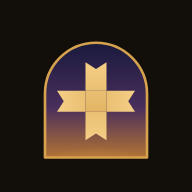
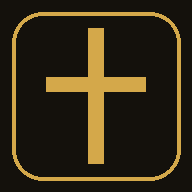
إلغاء الأيقونة الجديدة والرجوع للأيقونة السابقة (r145)
Claude-Session: https://claude.ai/code/session_01TxsQH8W41ZBNhnMhe9bVaK

diff --git a/guide-news.js b/guide-news.js
@@ -1,7 +1,7 @@
 /* سجل الميزات الجديدة (الأحدث أولا). كل ميزة جديدة تُضاف هنا كمدخل جديد في أعلى القائمة،
    ثم تُحدَّث مواصفة الصفحة المتأثرة في tools/make-guide.js وتُعاد اللقطات (node tools/make-guide.js). */
 window.KG_NEWS=[
-{v:"r144",t:"أيقونة جديدة وتنظيم الخطوط",x:"أيقونة التطبيق صارت نافذة مقوّسة بسماء الفجر وصليب قبطي ذهبي (تظهر بعد إعادة تثبيت التطبيق على الشاشة الرئيسية). وتوحّدت أحجام الخطوط في الواجهة على سلّم أقل عددا فصار الشكل أكثر اتساقا. وأُضيف فحص آلي لبنية المحتوى وملف يوثّق الألوان والخطوط والمصطلحات."},
+{v:"r144",t:"تنظيم أحجام الخطوط",x:"توحّدت أحجام الخطوط في الواجهة على سلّم أقل عددا فصار الشكل أكثر اتساقا. وأُضيف فحص آلي لبنية المحتوى وملف يوثّق الألوان والخطوط والمصطلحات."},
 {v:"r143",t:"رأس قراءة أخف وصفحة «بعد القداس» أدفأ",x:"في رأس القراءة صار 🕊 الهمسات و🕯 وضع الكنيسة داخل زر واحد «⋯» (يفتح خيارات القراءة) فبقي في الصف زر الخيارات وزرّا القداسين والفهرس فقط. وصفحة «بعد القداس» صارت بلحظة ختام: علامة ✓ تُرسم بهدوء مع ملخص ما صليته، وإن لم تصلِّ شيئا تظهر رسالة سلام بدل الأصفار، وفي آخرها «الرب معكم · إلى لقاء قريب»."},
 {v:"r142",t:"تحسينات إتاحة (وصول)",x:"فحص تباين الألوان في الثيمات الـ١١: ظُلّلت ألوان التمييز في الثيمات الفاتحة، وصُحّح تباين رقم الشرح والهوامش ومقاطع الذكصولوجيات. مؤشر تركيز واضح عند التنقل بلوحة المفاتيح، وأزرار رأس القراءة أكبر (٤٠ بكسل) لتسهل على اللمس."},
 {v:"r141",t:"إصلاح: أزرار المقابل لا تغيب عند فتح البرنامج",x:"كانت أزرار الانتقال للقداسين الآخرين قد لا تظهر أحيانا عند فتح البرنامج مباشرة على قسم؛ أصبحت تظهر دائما."},

diff --git a/sw.js b/sw.js
@@ -1,4 +1,4 @@
-const CACHE_NAME='khulagi-v1.5-shell-r144';
+const CACHE_NAME='khulagi-v1.5-shell-r145';
 const FILES=['./','index.html','icon-192.png','icon-512.png','guide-news.js','guide-pages.js','guide/doxologies.jpg','guide/library.jpg','guide/lists.jpg','guide/lit.jpg','guide/notes.jpg','guide/post.jpg','guide/pre.jpg','guide/reader.jpg','guide/settings.jpg','guide/sidx.jpg','guide/splash.jpg','guide/story.jpg','guide/today.jpg','reemkufi-arabic-700-normal.woff2','dawn.jpg','data.js','study.js','swipe.js','live.js','story.js','study-data.js','data-bible.js','content-raf.txt','content-bas.txt','content-greg.txt','content-cyr.txt','content-qisam.txt','content-misc.txt','content-bless.txt','content-app.txt','content-taqs.txt','content-dox.txt','manifest.webmanifest','amiri-arabic-400-normal.woff2','amiri-arabic-700-normal.woff2','amiri-latin-400-normal.woff2','tajawal-arabic-400.woff2','tajawal-latin-400.woff2','tajawal-arabic-700.woff2','tajawal-latin-700.woff2','cairo-arabic-400-normal.woff2','cairo-arabic-700-normal.woff2','el-messiri-arabic-400-normal.woff2','el-messiri-arabic-700-normal.woff2','lateef-arabic-400-normal.woff2','lateef-arabic-700-normal.woff2','markazi-text-arabic-400-normal.woff2','markazi-text-arabic-700-normal.woff2','noto-naskh-arabic-arabic-400-normal.woff2','noto-naskh-arabic-arabic-700-normal.woff2','reem-kufi-arabic-400-normal.woff2','reem-kufi-arabic-700-normal.woff2','scheherazade-new-arabic-400-normal.woff2','scheherazade-new-arabic-700-normal.woff2','amiri-latin-700-normal.woff2','noto-sans-coptic-coptic-400-normal.woff2','noto-sans-coptic-latin-400-normal.woff2'];
 self.addEventListener('install',e=>{e.waitUntil(caches.open(CACHE_NAME).then(c=>Promise.all(FILES.map(f=>c.add(new Request(f,{cache:'reload'})).catch(()=>{})))).then(()=>self.skipWaiting()))});
 self.addEventListener('activate',e=>{e.waitUntil(caches.keys().then(k=>Promise.all(k.filter(x=>x!==CACHE_NAME).map(x=>caches.delete(x)))).then(()=>self.clients.claim()))});

diff --git a/DESIGN.md b/DESIGN.md
@@ -39,4 +39,3 @@
 - `node tools/test.js` — اختبارات انحدار قبل كل Merge.
 - `node tools/check-content.js` — فحص بنية المحتوى وتقرير التغطية.
 - `node tools/make-guide.js` — لقطات دليل البرنامج.
-- `node tools/make-icons.js` — أيقونات التطبيق من `tools/icon.svg`.
